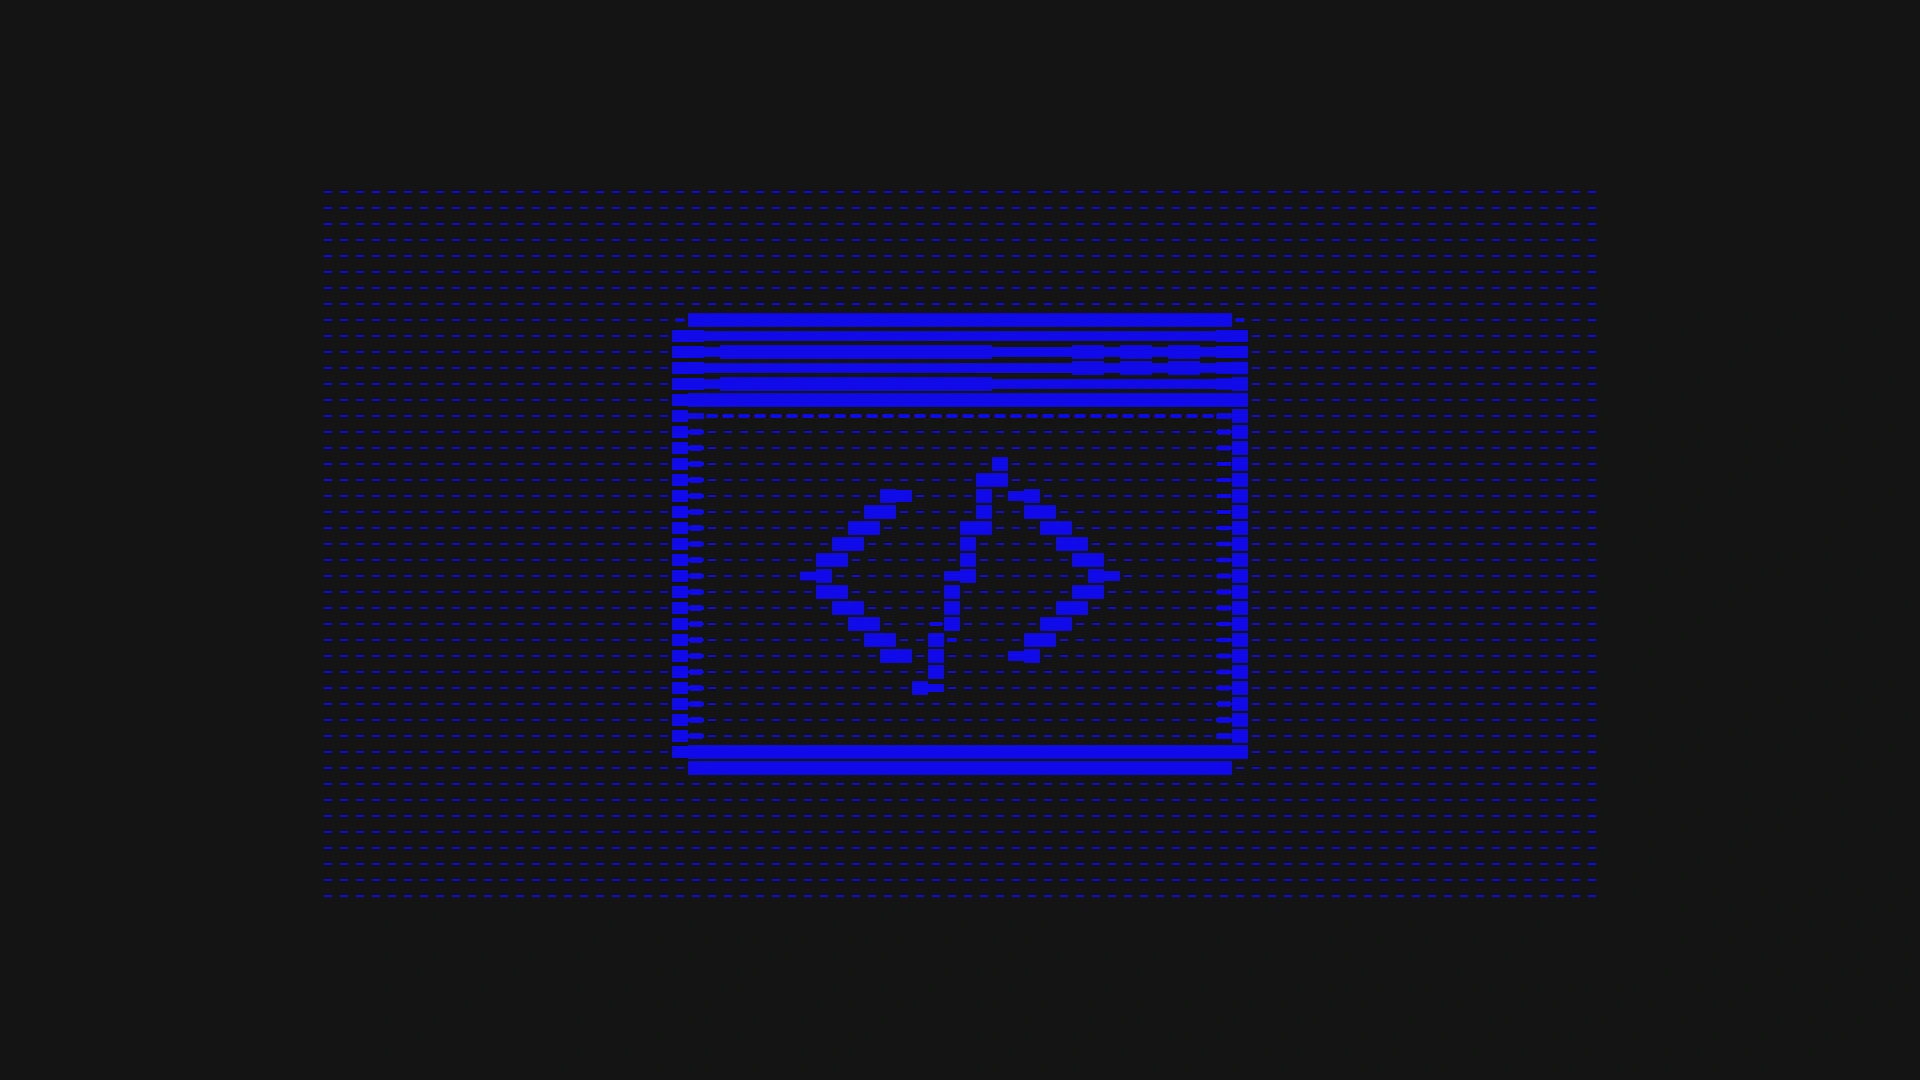
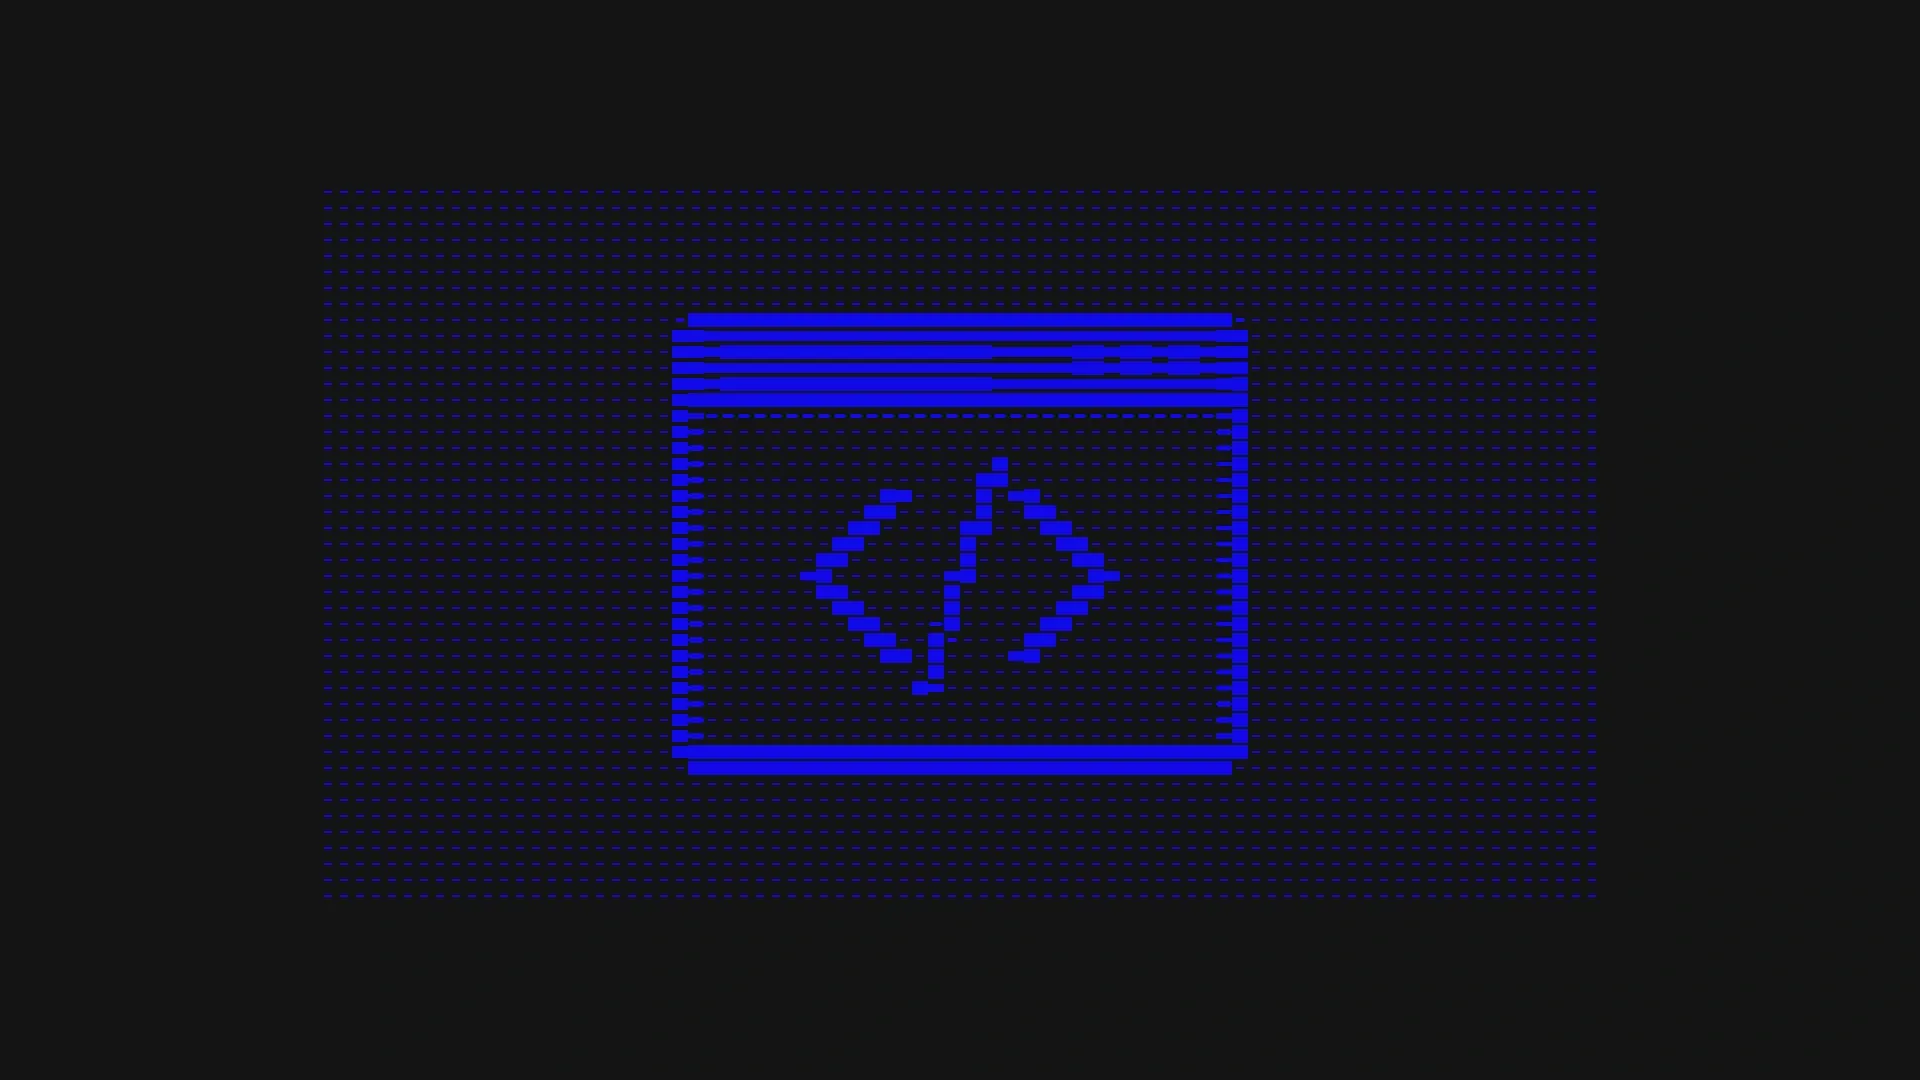
[Website] Full-bleed hero/testimonials, nav restructure, OpenNext deploy config (#21794)
### Full-bleed backgrounds on wide screens

Decorative section backgrounds were capped at the 1512px content width,
leaving large empty gutters on ultra-wide viewports.
- Added an opt-in `fullBleedBackground` prop to `SectionShell` that
lifts the background layer off the content-width cap (default unchanged,
so every other section is untouched).
- Applied it to `HomeHero` (bridge halftone field) and both testimonials
sections.
- Capped the `NotchedCardShape` notch at its width at the content cap,
so the white/dark card can span the full viewport while the notch stays
fixed and centered. The footer and any other capped card are unaffected.

<img width="3024" height="1718" alt="image"
src="https://github.com/user-attachments/assets/a2200677-58af-4740-9257-77f6385ade28"
/>

<img width="3024" height="1224" alt="image"
src="https://github.com/user-attachments/assets/73aa6745-b766-405e-b736-8c0c7591232e"
/>

### Navigation restructure
- Removed **Product** from the menu and footer nav, and promoted **Why**
out of the Resources dropdown to a top-level item in Product's place.
(The Product page itself is unchanged).
- Resources dropdown polish: tightened the preview frame height now that
the list is shorter; restored the cleaner/brighter User Guide and
Developers preview assets from `twenty-website`; gave User Guide a
center + 2× image scale so its halftone fills the frame like Developers,
and raised `NextImage` `sizes` to keep the fine halftone crisp through
that magnification.
[…]

diff --git a/packages/twenty-website-redone/src/ui/NotchedCardShape.tsx b/packages/twenty-website-redone/src/ui/NotchedCardShape.tsx
@@ -1,20 +1,25 @@
 import { styled } from '@linaria/react';
 
-import { buildSchemeDeclarations, type Scheme, semanticColor } from '@/tokens';
+import {
+  buildSchemeDeclarations,
+  MAX_CONTENT_WIDTH_PX,
+  type Scheme,
+  semanticColor,
+} from '@/tokens';
 
-// A card with the sculpted notched top edge — shared by the footer stage card
-// and the testimonials card. The card presents a surface scheme: its fill is
-// that scheme's surface (light → white, dark → black). On a light section a
-// dark card reads as a dark panel whose notch reveals the white surface behind
-// it. The old site stretched one 1360px-wide path with
-// preserveAspectRatio="none", distorting the notch slopes at every other width.
-// Here the slopes keep their authored geometry (fixed-width SVG caps extracted
-// from the original path) and only the flat runs flex, in the original
-// 344 : 518 : 343 proportions.
 const CAP_HEIGHT_PX = 20;
 
 const LEFT_SLOPE_WIDTH_PX = 74;
 const RIGHT_SLOPE_WIDTH_PX = 73;
+
+const LEFT_FLAT_GROW = 344;
+const NOTCH_GROW = 518;
+const RIGHT_FLAT_GROW = 343;
+
+const NOTCH_MAX_WIDTH_PX = Math.round(
+  (NOTCH_GROW / (LEFT_FLAT_GROW + NOTCH_GROW + RIGHT_FLAT_GROW)) *
+    (MAX_CONTENT_WIDTH_PX - LEFT_SLOPE_WIDTH_PX - RIGHT_SLOPE_WIDTH_PX),
+);
 
 const LEFT_SLOPE_PATH =
   'M0 0 C4.197 0 8.369 0.66 12.361 1.958 L61.861 18.042 A40 40 0 0 0 74.222 20 L0 20 Z';
@@ -43,17 +48,18 @@ const FlatRun = styled.div`
   min-width: 0;
 
   &[data-edge='left'] {
-    flex-grow: 344;
+    flex-grow: ${LEFT_FLAT_GROW};
   }
 
   &[data-edge='right'] {
-    flex-grow: 343;
+    flex-grow: ${RIGHT_FLAT_GROW};
   }
 `;
 
 const Plateau = styled.div`
   flex-basis: 0;
-  flex-grow: 518;
+  flex-grow: ${NOTCH_GROW};
+  max-width: ${NOTCH_MAX_WIDTH_PX}px;
   min-width: 0;
 `;
 
@@ -63,14 +69,9 @@ const BodyFill = styled.div`
   left: 0;
   position: absolute;
   right: 0;
-  /* 1px overlap with the cap row prevents subpixel seams. */
   top: ${CAP_HEIGHT_PX - 1}px;
 `;
 
-// The card carries its own surface scheme so its fill is independent of the
-// host section's scheme — a white card on a muted section, a black card on a
-// light one. The shape draws no text, so it adopts only the scheme variables
-// (it reads `surface`); the ink colour belongs to its content, not the shape.
 const ShapeLayer = styled.div`
   inset: 0;
   pointer-events: none;

diff --git a/packages/twenty-website-redone/open-next.config.ts b/packages/twenty-website-redone/open-next.config.ts
@@ -1,0 +1,34 @@
+import { defineCloudflareConfig } from '@opennextjs/cloudflare';
+import r2IncrementalCache from '@opennextjs/cloudflare/overrides/incremental-cache/r2-incremental-cache';
+import { withRegionalCache } from '@opennextjs/cloudflare/overrides/incremental-cache/regional-cache';
+
+// Worker custom-domain hostnames bypass the zone-level Cache Rule for
+// synthetic responses (OpenNext builds responses from R2 reads rather than
+// `fetch()`-ing an origin). Wrapping the R2 incremental cache with the
+// regional cache means cache-hit reads come from CF's per-region Cache API
+// (~10ms) instead of R2 (~100ms), recovering most of the TTFB the migration
+// lost.
+const incrementalCache = withRegionalCache(r2IncrementalCache, {
+  mode: 'long-lived',
+});
+
+const baseConfig = defineCloudflareConfig({
+  incrementalCache,
+});
+
+// `defineCloudflareConfig` only takes the `CloudflareOverrides` subset of the
+// config today; `skewProtection` lives directly under `cloudflare.*` and has to
+// be merged in. See packages/cloudflare/src/api/config.ts in opennextjs-cloudflare.
+export default {
+  ...baseConfig,
+  cloudflare: {
+    ...baseConfig.cloudflare,
+    skewProtection: {
+      enabled: true,
+      // Window large enough to keep prod-version history for skew routing AND
+      // hold one slot per open PR preview. `maxVersionAgeDays` prunes the rest.
+      maxNumberOfVersions: 50,
+      maxVersionAgeDays: 14,
+    },
+  },
+};

diff --git a/packages/twenty-website-redone/src/ui/SectionShell.tsx b/packages/twenty-website-redone/src/ui/SectionShell.tsx
@@ -13,9 +13,6 @@ import {
 
 import { Container } from './Container';
 
-// The only place a <section> exists. Every section gets its vertical rhythm
-// from a named token class and resolves its semantic colors from its scheme —
-// no per-section padding, no background props.
 const sectionShellClassName = css`
   background-color: ${semanticColor.surface};
   min-width: 0;
@@ -70,14 +67,6 @@ const sectionShellClassName = css`
     ${buildSchemeContext('dark')}
   }
 
-  /* Same-scheme neighbours share one surface, so the follower trims its top
-     to a single small step rather than stacking a second full rhythm band of
-     the same colour. The upper section keeps its full bottom rhythm; the
-     follower's 6px (not 0) leaves room for frame decorations that overflow its
-     top edge — TrustedBy's corner markers. Flush scenes own their own edges
-     and opt out, as does a section with keepsTopRhythm — one whose own top
-     padding is load-bearing (an editorial's top-anchored crosshair needs the
-     room below it). */
   &[data-scheme='light']:not([data-rhythm='flush'])
     + &[data-scheme='light']:not([data-keep-top-rhythm]),
   &[data-scheme='muted']:not([data-rhythm='flush'])
@@ -87,13 +76,6 @@ const sectionShellClassName = css`
     padding-top: ${spacing(1.5)};
   }
 
-  /* A section can declare that it connects up into the section above it — a
-     single continuous decorative frame across the seam (the partners promo
-     hanging off the TrustedBy band). The upper section drops its bottom rhythm
-     so its border meets the seam exactly, and shows overflow so its bottom
-     corner markers sit on that line instead of being clipped; z-index keeps
-     those markers above the section below. Same-scheme by intent — the
-     connecting section is responsible for sharing the surface. */
   &:has(+ &[data-connect-up]) {
     overflow: visible;
     padding-bottom: 0;
@@ -109,6 +91,10 @@ const backgroundLayerClassName = css`
   pointer-events: none;
   position: absolute;
   z-index: 0;
+
+  &[data-full-bleed] {
+    max-width: none;
+  }
 `;
 
 const contentLayerClassName = css`
@@ -118,19 +104,11 @@ const contentLayerClassName = css`
 
 export type SectionShellProps = {
   ariaLabel?: string;
-  // Decorative layer behind the content (gradients, visuals), capped at the
-  // content width — only the section's solid colour bleeds full-width.
   background?: ReactNode;
   children: ReactNode;
-  // Forms one continuous frame with the section directly above (same scheme):
-  // that section yields its bottom rhythm so the two tuck together.
   connectsUp?: boolean;
-  // Removes the Container's horizontal gutter (the max-width cap and centring
-  // stay) — for content that runs edge-to-edge within the content column,
-  // like the marquee. Most sections keep the gutter.
   flushInline?: boolean;
-  // Keeps its own full top rhythm instead of collapsing under a same-scheme
-  // predecessor — for sections whose top padding is load-bearing.
+  fullBleedBackground?: boolean;
   keepsTopRhythm?: boolean;
   rhythm?: 'section' | 'hero' | 'spacious' | 'flush';
   scheme?: Scheme;
@@ -142,6 +120,7 @@ export function SectionShell({
   children,
   connectsUp = false,
   flushInline = false,
+  fullBleedBackground = false,
   keepsTopRhythm = false,
   rhythm = 'section',
   scheme = 'light',
@@ -160,6 +139,7 @@ export function SectionShell({
           aria-hidden
           className={backgroundLayerClassName}
           data-background-layer=""
+          data-full-bleed={fullBleedBackground ? '' : undefined}
         >
           {background}
         </div>

diff --git a/packages/twenty-website-redone/src/sections/menu/MenuDropdown.tsx b/packages/twenty-website-redone/src/sections/menu/MenuDropdown.tsx
@@ -8,6 +8,7 @@ import { useState } from 'react';
 
 import { ArrowUpRight } from '@/icons';
 import { LocalizedLink } from '@/platform/i18n/LocalizedLink';
+import { useUnlocalizedPathname } from '@/platform/i18n/use-unlocalized-pathname';
 import { ExternalLink } from '@/ui';
 import {
   EASING,
@@ -66,6 +67,10 @@ const IconWrap = styled.span`
   justify-content: center;
   position: relative;
   width: 32px;
+
+  ${DropdownLink}[data-active] & {
+    color: ${color('blue')};
+  }
 `;
 
 const ExternalBadge = styled.span`
@@ -100,6 +105,24 @@ const ItemLabel = styled.span`
   letter-spacing: 0;
   line-height: 1.1;
   text-transform: uppercase;
+
+  &::before {
+    background: ${color('blue')};
+    content: '';
+    display: none;
+    height: 2px;
+    margin-right: ${spacing(1.5)};
+    vertical-align: middle;
+    width: 8px;
+  }
+
+  ${DropdownLink}[data-active] & {
+    color: ${color('blue')};
+  }
+
+  ${DropdownLink}[data-active] &::before {
+    display: inline-block;
+  }
 `;
 
 const ItemDescription = styled.span`
@@ -123,7 +146,7 @@ const PreviewFrame = styled.div`
   border: 1px solid ${semanticColor.line};
   border-radius: ${radius(2)};
   flex: 1;
-  min-height: 220px;
+  min-height: 160px;
   overflow: hidden;
   position: relative;
   width: 100%;
@@ -159,6 +182,7 @@ export type MenuDropdownProps = {
 
 export function MenuDropdown({ items }: MenuDropdownProps) {
   const { i18n } = useLingui();
+  const pathname = useUnlocalizedPathname();
   const [activeHref, setActiveHref] = useState(items[0]?.href ?? '');
   const activeItem =
     items.find((item) => item.href === activeHref) ?? items[0] ?? null;
@@ -168,6 +192,9 @@ export function MenuDropdown({ items }: MenuDropdownProps) {
       <DropdownList>
         {items.map((child) => {
           const IconComponent = child.icon;
+          const isCurrentPage =
+            child.external !== true &&
+            (pathname === child.href || pathname.startsWith(`${child.href}/`));
           return (
             <li
               key={child.href}
@@ -175,6 +202,7 @@ export function MenuDropdown({ items }: MenuDropdownProps) {
               onMouseEnter={() => setActiveHref(child.href)}
             >
               <DropdownLink
+                data-active={isCurrentPage ? '' : undefined}
                 render={
                   child.external === true ? (
                     <ExternalLink href={child.href} />
@@ -206,7 +234,7 @@ export function MenuDropdown({ items }: MenuDropdownProps) {
             <NextImage
               alt={i18n._(activeItem.preview.imageAlt)}
               fill
-              sizes="360px"
+              sizes="720px"
               src={activeItem.preview.image}
               style={{
                 objectFit: 'cover',

diff --git a/packages/twenty-website-redone/src/sections/menu/menu.data.ts b/packages/twenty-website-redone/src/sections/menu/menu.data.ts
@@ -2,7 +2,6 @@ import { type MessageDescriptor } from '@lingui/core';
 import { msg } from '@lingui/core/macro';
 import {
   IconBook,
-  IconBulb,
   IconBrandLinkedin,
   IconBrandX,
   IconCode,
@@ -52,23 +51,10 @@ export const MENU: {
 } = {
   appUrl: SITE_URLS.appWelcome,
   navItems: [
-    { href: '/product', label: msg`Product` },
+    { href: '/why-twenty', label: msg`Why` },
     {
       label: msg`Resources`,
       children: [
-        {
-          label: msg`Why`,
-          description: msg`The story behind Twenty`,
-          href: '/why-twenty',
-          icon: IconBulb,
-          preview: {
-            image: '/images/menu/why.webp',
-            imageAlt: msg`Why Twenty illustration`,
-            imagePosition: 'center',
-            title: msg`Why teams choose Twenty`,
-            description: msg`The principles and product philosophy behind the open source CRM.`,
-          },
-        },
         {
           label: msg`User Guide`,
           description: msg`Learn how to use Twenty`,

diff --git a/packages/twenty-website-redone/next.config.ts b/packages/twenty-website-redone/next.config.ts
@@ -1,4 +1,5 @@
 import path from 'path';
+import { initOpenNextCloudflareForDev } from '@opennextjs/cloudflare';
 import withLinaria, { type LinariaConfig } from 'next-with-linaria';
 
 import { localeToUrlSegment } from './src/platform/i18n/locale-to-url-segment';
@@ -48,3 +49,7 @@ const nextConfig: LinariaConfig = {
 };
 
 export default withLinaria(nextConfig);
+
+// Binds the Cloudflare dev context (R2 incremental cache, env vars) into
+// `next dev` so local runs mirror the deployed OpenNext worker.
+initOpenNextCloudflareForDev();

diff --git a/packages/twenty-website-redone/src/sections/footer/footer.data.ts b/packages/twenty-website-redone/src/sections/footer/footer.data.ts
@@ -38,8 +38,8 @@ export type FooterSocialLink = {
   icon: IconComponent;
 };
 
-// Sitemap now includes Product and Customers — both pages exist in the nav
-// but were missing from the old footer.
+// Sitemap includes Customers — it exists in the nav but was missing from the
+// old footer.
 export const FOOTER: {
   navGroups: readonly FooterNavGroup[];
   socialLinks: readonly FooterSocialLink[];
@@ -50,7 +50,6 @@ export const FOOTER: {
       title: msg`Sitemap`,
       links: [
         { label: msg`Home`, href: '/' },
-        { label: msg`Product`, href: '/product' },
         { label: msg`Pricing`, href: '/pricing' },
         { label: msg`Customers`, href: '/customers' },
         { label: msg`Partners`, href: '/partners' },

diff --git a/packages/twenty-website-redone/src/sections/home-hero/HomeHero.tsx b/packages/twenty-website-redone/src/sections/home-hero/HomeHero.tsx
@@ -82,6 +82,7 @@ export function HomeHero() {
           <HeroBackdrop />
         </GradientBackdrop>
       }
+      fullBleedBackground
       rhythm="hero"
       scheme="muted"
     >

diff --git a/packages/twenty-website-redone/src/sections/testimonials/PartnerTestimonials.tsx b/packages/twenty-website-redone/src/sections/testimonials/PartnerTestimonials.tsx
@@ -19,6 +19,7 @@ export function PartnerTestimonials() {
   return (
     <SectionShell
       background={<NotchedCardShape cardScheme="dark" />}
+      fullBleedBackground
       rhythm="spacious"
       scheme="light"
     >

diff --git a/packages/twenty-website-redone/src/sections/testimonials/Testimonials.tsx b/packages/twenty-website-redone/src/sections/testimonials/Testimonials.tsx
@@ -7,6 +7,7 @@ export function Testimonials() {
   return (
     <SectionShell
       background={<NotchedCardShape />}
+      fullBleedBackground
       rhythm="spacious"
       scheme="muted"
     >